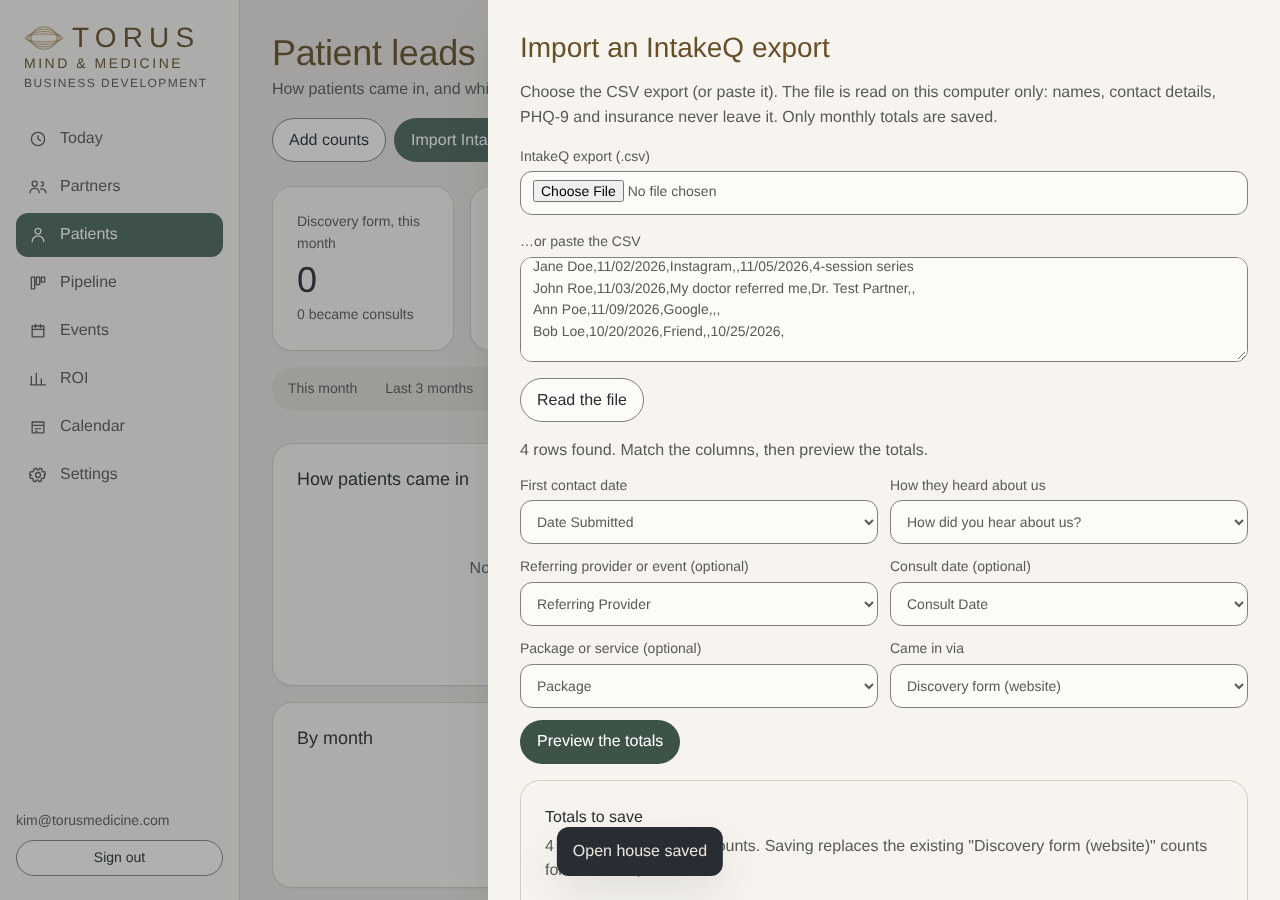
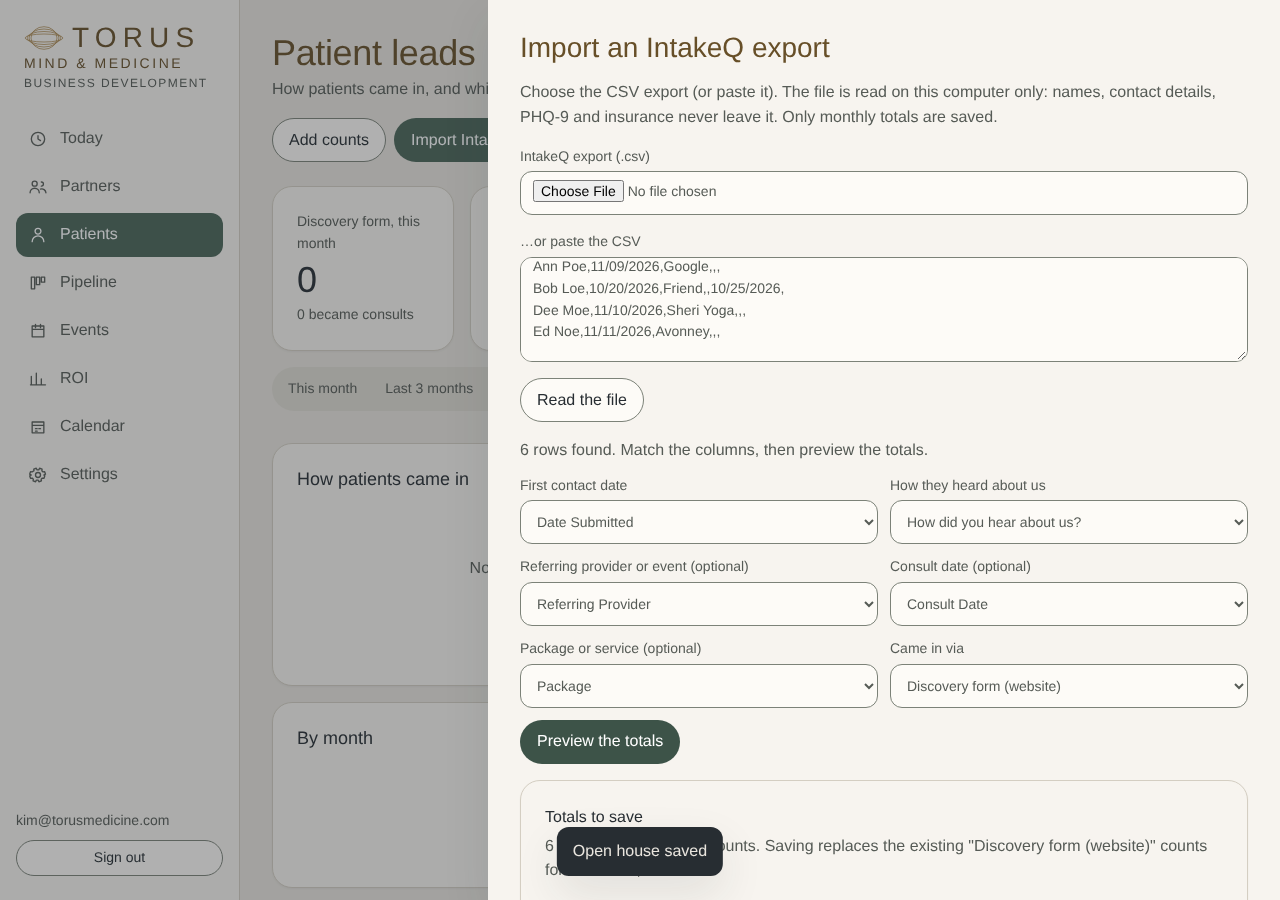
Add referral sources: Shari Retreats, Shari Yoga, Avonny
Added to the dashboard source list, the IntakeQ import's auto-matching
(also matches 'Sheri' and 'Avonney' spellings) and the Sheets tracker.
Live test now covers the new sources.

Claude-Session: https://claude.ai/code/session_016Broc13AmVu7DcJiKXFPp3

Changed region(s): [[0.4062, 0.28, 0.7188, 0.3733]]

diff --git a/dashboard/app.js b/dashboard/app.js
@@ -34,7 +34,7 @@
     { id: 'D', name: 'Digital / direct', long: 'Digital / direct', color: 'var(--chart-6)' },
   ];
   const act = (id) => ACTIVITIES.find((a) => a.id === id) || ACTIVITIES[5];
-  const SOURCES = ['Provider referral', 'Community event', 'Provider education event', 'Social media', 'Google / organic search', 'Email (Flodesk)', 'Word of mouth', 'Direct walk-in', 'Other'];
+  const SOURCES = ['Provider referral', 'Community event', 'Provider education event', 'Social media', 'Google / organic search', 'Email (Flodesk)', 'Word of mouth', 'Direct walk-in', 'Shari Retreats', 'Shari Yoga', 'Avonny', 'Other'];
   const CHANNELS = ['Discovery form (website)', 'Phone call', 'Email', 'Provider referral form', 'At an event', 'Walk-in'];
   const EVENT_TYPES = ['Lunch-and-learn', 'Webinar', 'Open house', 'Q&A', 'Tea', 'Integration circle', 'Community talk'];
   const TYPES = ['Clinical referrer', 'Hospital colleague', 'Community venue'];
@@ -483,7 +483,7 @@
   const norm = (s) => String(s || '').toLowerCase().replace(/[^a-z0-9]+/g, ' ').trim();
   const matchList = (val, list, fallback) => { const v = norm(val); if (!v) return fallback; return list.find((x) => norm(x) === v) || list.find((x) => v.includes(norm(x)) || norm(x).includes(v)) || fallback; };
   const matchSource = (val) => { const v = norm(val); if (!v) return 'Other';
-    const rules = [[/refer|doctor|physician|provider|therapist/, 'Provider referral'], [/lunch|webinar|education/, 'Provider education event'], [/event|talk|tea|open house|circle|yoga|class/, 'Community event'], [/insta|facebook|social|tiktok|linkedin/, 'Social media'], [/google|search|online|web/, 'Google / organic search'], [/email|newsletter|flodesk/, 'Email (Flodesk)'], [/friend|family|word|mouth/, 'Word of mouth'], [/walk/, 'Direct walk-in']];
+    const rules = [[/retreat/, 'Shari Retreats'], [/\b(shari|sheri)\b.*yoga|yoga.*\b(shari|sheri)\b/, 'Shari Yoga'], [/\bavonn?e?y\b/, 'Avonny'], [/refer|doctor|physician|provider|therapist/, 'Provider referral'], [/lunch|webinar|education/, 'Provider education event'], [/event|talk|tea|open house|circle|yoga|class/, 'Community event'], [/insta|facebook|social|tiktok|linkedin/, 'Social media'], [/google|search|online|web/, 'Google / organic search'], [/email|newsletter|flodesk/, 'Email (Flodesk)'], [/friend|family|word|mouth/, 'Word of mouth'], [/walk/, 'Direct walk-in']];
     return matchList(val, SOURCES, null) || (rules.find(([re]) => re.test(v)) || [null, 'Other'])[1]; };
   const matchCredit = (val) => { const v = norm(val); if (!v || v.length < 3) return '';
     const hit = DATA.partners.find((p) => [p.contact, p.org].some((x) => norm(x) && (v.includes(norm(x)) || norm(x).includes(v)))) || DATA.events.find((e) => norm(e.name) && (v.includes(norm(e.name)) || norm(e.name).includes(v)));

diff --git a/scripts/live_test.py b/scripts/live_test.py
@@ -12,6 +12,8 @@ Jane Doe,11/02/2026,Instagram,,11/05/2026,4-session series
 John Roe,11/03/2026,My doctor referred me,Dr. Test Partner,,
 Ann Poe,11/09/2026,Google,,,
 Bob Loe,10/20/2026,Friend,,10/25/2026,
+Dee Moe,11/10/2026,Sheri Yoga,,,
+Ed Noe,11/11/2026,Avonney,,,
 """
 
 def serve():
@@ -71,16 +73,17 @@ async def main():
         await pg.fill("[data-import-text]", CSV); await pg.click("text=Read the file"); await pg.wait_for_timeout(100)
         await pg.select_option("[name=via]", "Discovery form (website)"); await pg.click("button:has-text(\"Preview the totals\")"); await pg.wait_for_timeout(100)
         preview = await pg.inner_text("[data-import-preview]")
-        ok("preview shows 4 patients", "4 patients" in preview)
+        ok("preview shows 6 patients", "6 patients" in preview)
         await pg.screenshot(path=os.path.join(ROOT, "docs/screenshots/live-import-1280.png"))
         await pg.click("[data-act=import-save]"); await pg.wait_for_timeout(300)
         rows = await pg.evaluate("window.__db.lead_counts")
         ok("only counts saved (no names)", all(set(r.keys()) <= {"id", "month", "via", "source", "credit_id", "leads", "consults", "converted", "revenue"} for r in rows) and "Jane" not in json.dumps(rows))
-        ok("totals correct", sum(r["leads"] for r in rows) == 4 and sum(r["converted"] for r in rows) == 1 and any(r["credit_id"] == "P-001" for r in rows))
+        ok("totals correct", sum(r["leads"] for r in rows) == 6 and sum(r["converted"] for r in rows) == 1 and any(r["credit_id"] == "P-001" for r in rows))
+        ok("new sources matched (Sheri Yoga -> Shari Yoga, Avonney -> Avonny)", {r["source"] for r in rows} >= {"Shari Yoga", "Avonny"})
         ok("discovery KPI shows this month's leads", "Discovery form, this month" in await pg.inner_text("[data-view]"))
         # 6. Re-import replaces (no double count)
         await pg.click("text=Import IntakeQ export"); await pg.fill("[data-import-text]", CSV); await pg.click("text=Read the file"); await pg.click("button:has-text(\"Preview the totals\")"); await pg.click("[data-act=import-save]"); await pg.wait_for_timeout(300)
-        ok("re-import does not double count", await pg.evaluate("window.__db.lead_counts.reduce((s,r)=>s+r.leads,0)") == 4)
+        ok("re-import does not double count", await pg.evaluate("window.__db.lead_counts.reduce((s,r)=>s+r.leads,0)") == 6)
         # 7. Settings + team
         await pg.goto(base + "#setup"); await pg.wait_for_timeout(200)
         ok("shows Live connection", await pg.locator(".chip.success >> text=Live").count() == 1)

diff --git a/tracker/build_tracker.py b/tracker/build_tracker.py
@@ -28,7 +28,8 @@ wb = Workbook()
 # ---------------- Lists ----------------
 lists = {
     "Source category": ["Provider referral", "Community event", "Provider education event", "Social media",
-                        "Google / organic search", "Email (Flodesk)", "Word of mouth", "Waitlist (other)", "Direct walk-in"],
+                        "Google / organic search", "Email (Flodesk)", "Word of mouth", "Waitlist (other)", "Direct walk-in",
+                        "Shari Retreats", "Shari Yoga", "Avonny"],
     "BD activity": ["1. Practice partnerships (Relive +)", "2. Spravato insurance track", "3. Provider education series",
                     "4. Wellness community events", "5. Shari's physician network", "Digital / direct"],
     "Partner type": ["Clinical referrer", "Hospital colleague", "Community venue", "Marketing partner"],
